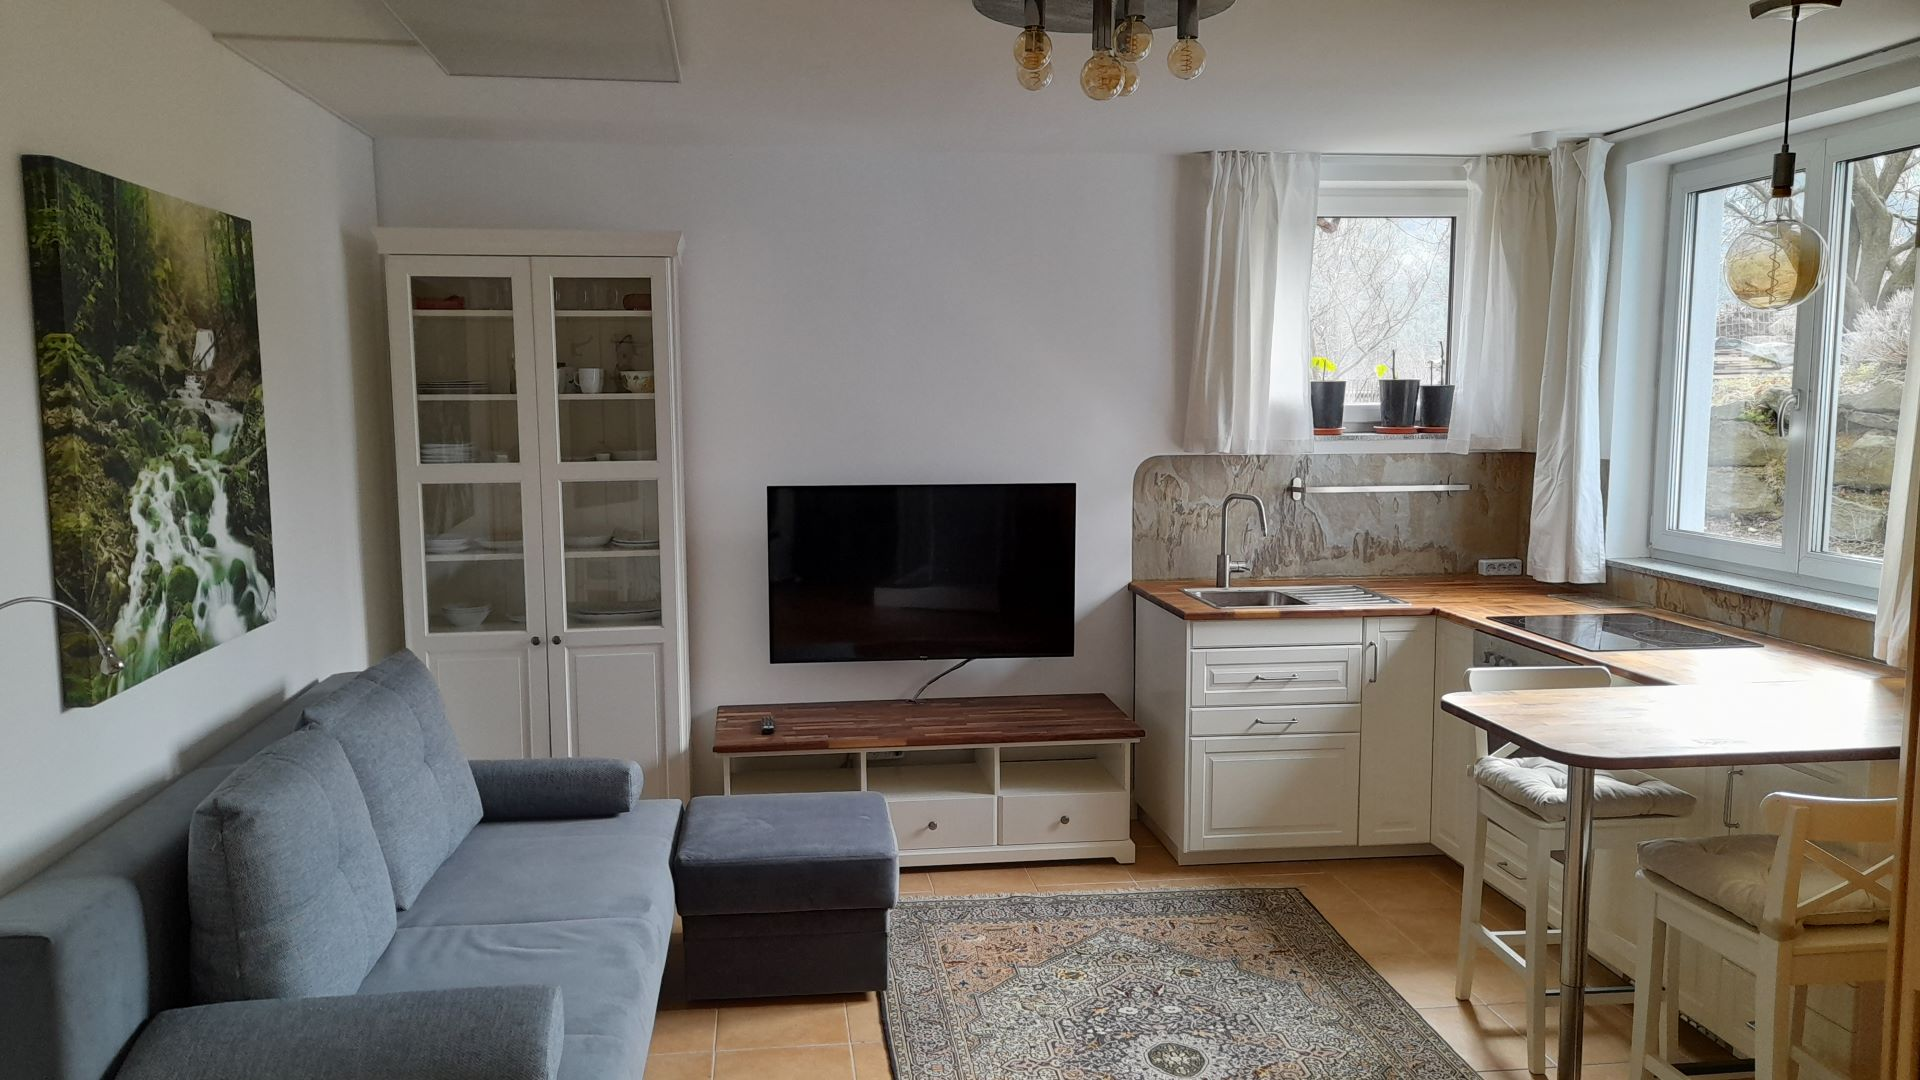
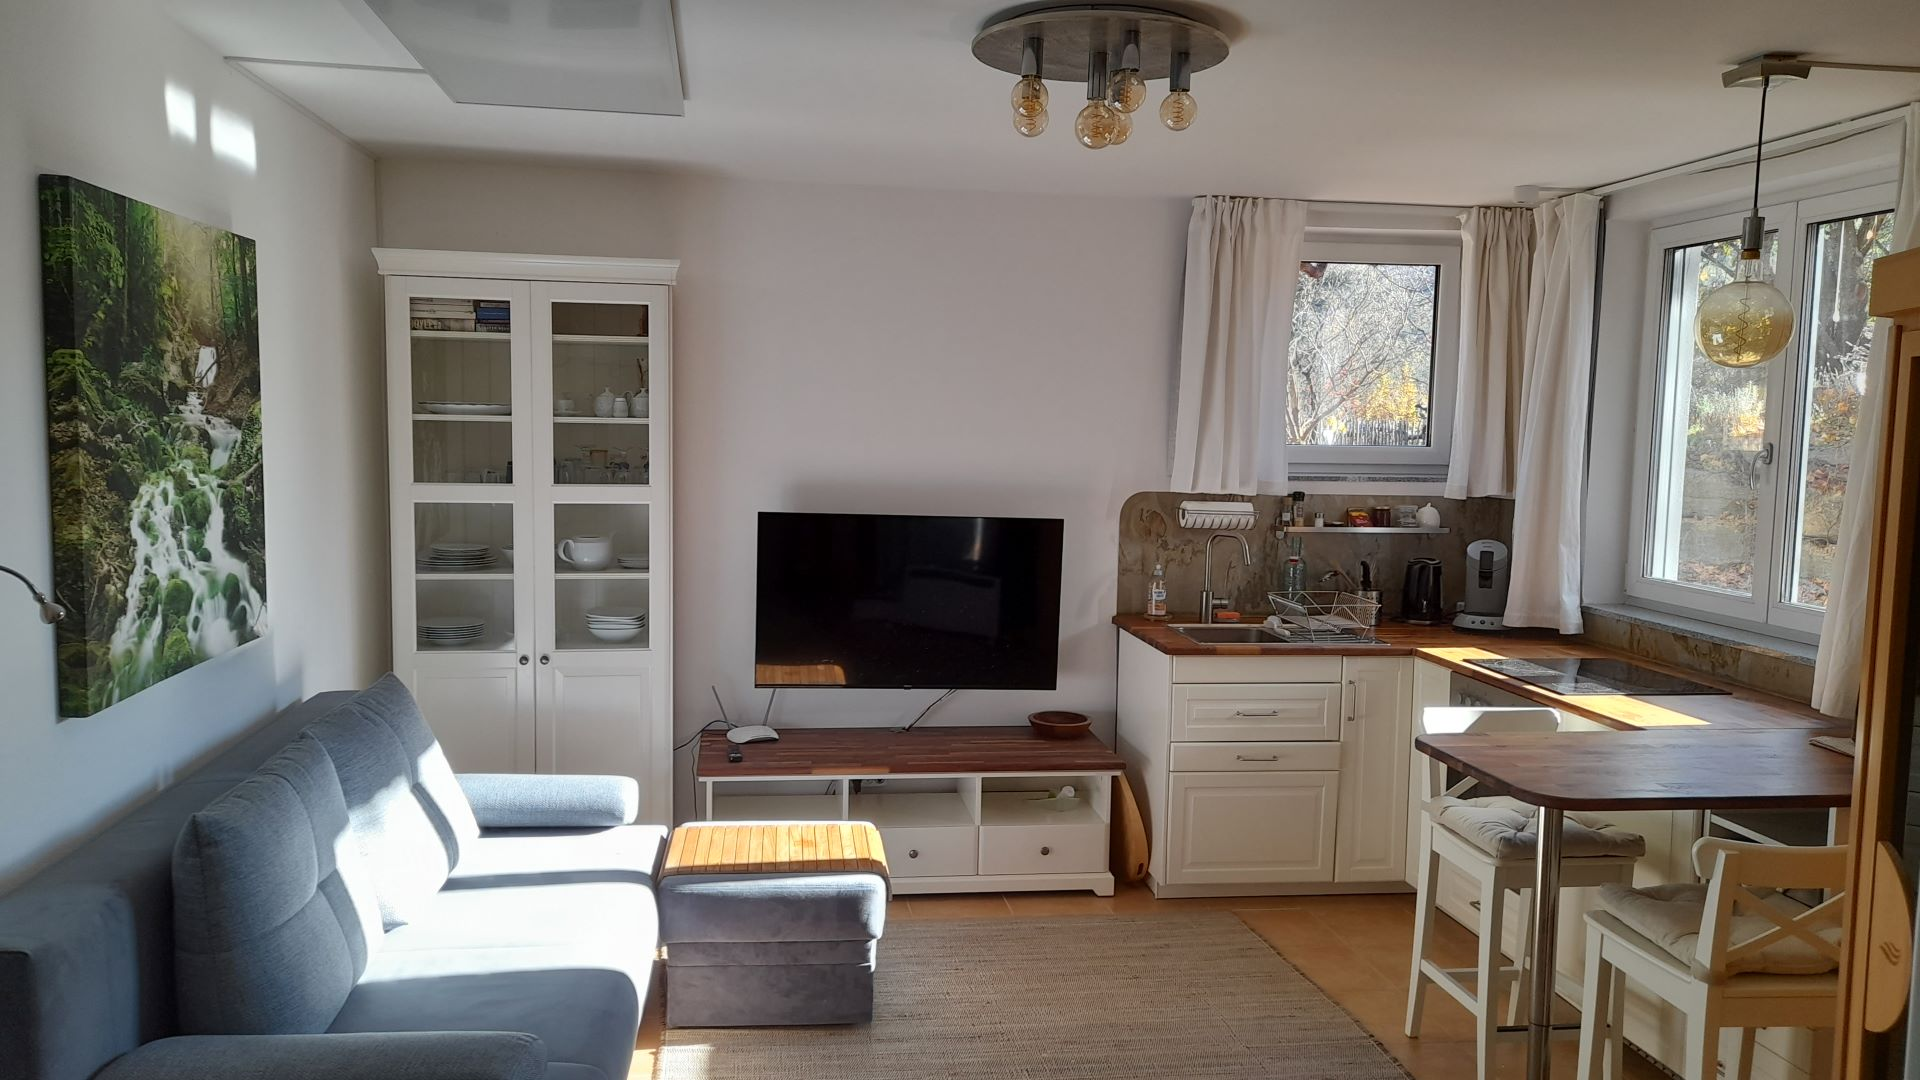
Fix FullCalendar path

diff --git a/buchung.html b/buchung.html
@@ -88,9 +88,7 @@ zur Verfügung.
 <p>
 
 Die Nutzung der Atropa-Infrarotkabine ist gegen
-einen Aufpreis von
-<strong>11 Euro pro Benutzung (für bis zu 2 Personen)</strong>
-möglich.
+einen Aufpreis von 11 Euro pro Benutzung (für bis zu 2 Personen) möglich.
 
 </p>
 
@@ -156,9 +154,11 @@ Das Rauchen ist ausschließlich im Freien gestattet.
     schriftlich per E-Mail oder Nachricht mit.
 </p>
 
+<h2>Tourismusbeitrag</h2>
+
 <p>
-    Gemäß den gesetzlichen Bestimmungen ist für Aufenthalte
-    ein Tourismusbeitrag von derzeit
+    Gemäß den gesetzlichen Bestimmungen der Landesregierung ist für Aufenthalte
+    eine Ortstaxe von derzeit
     <strong>4,50 Euro pro Person und Nacht</strong>
     zu entrichten.
     Dieser wird vom Gastgeber eingehoben und an die Gemeinde abgeführt.
